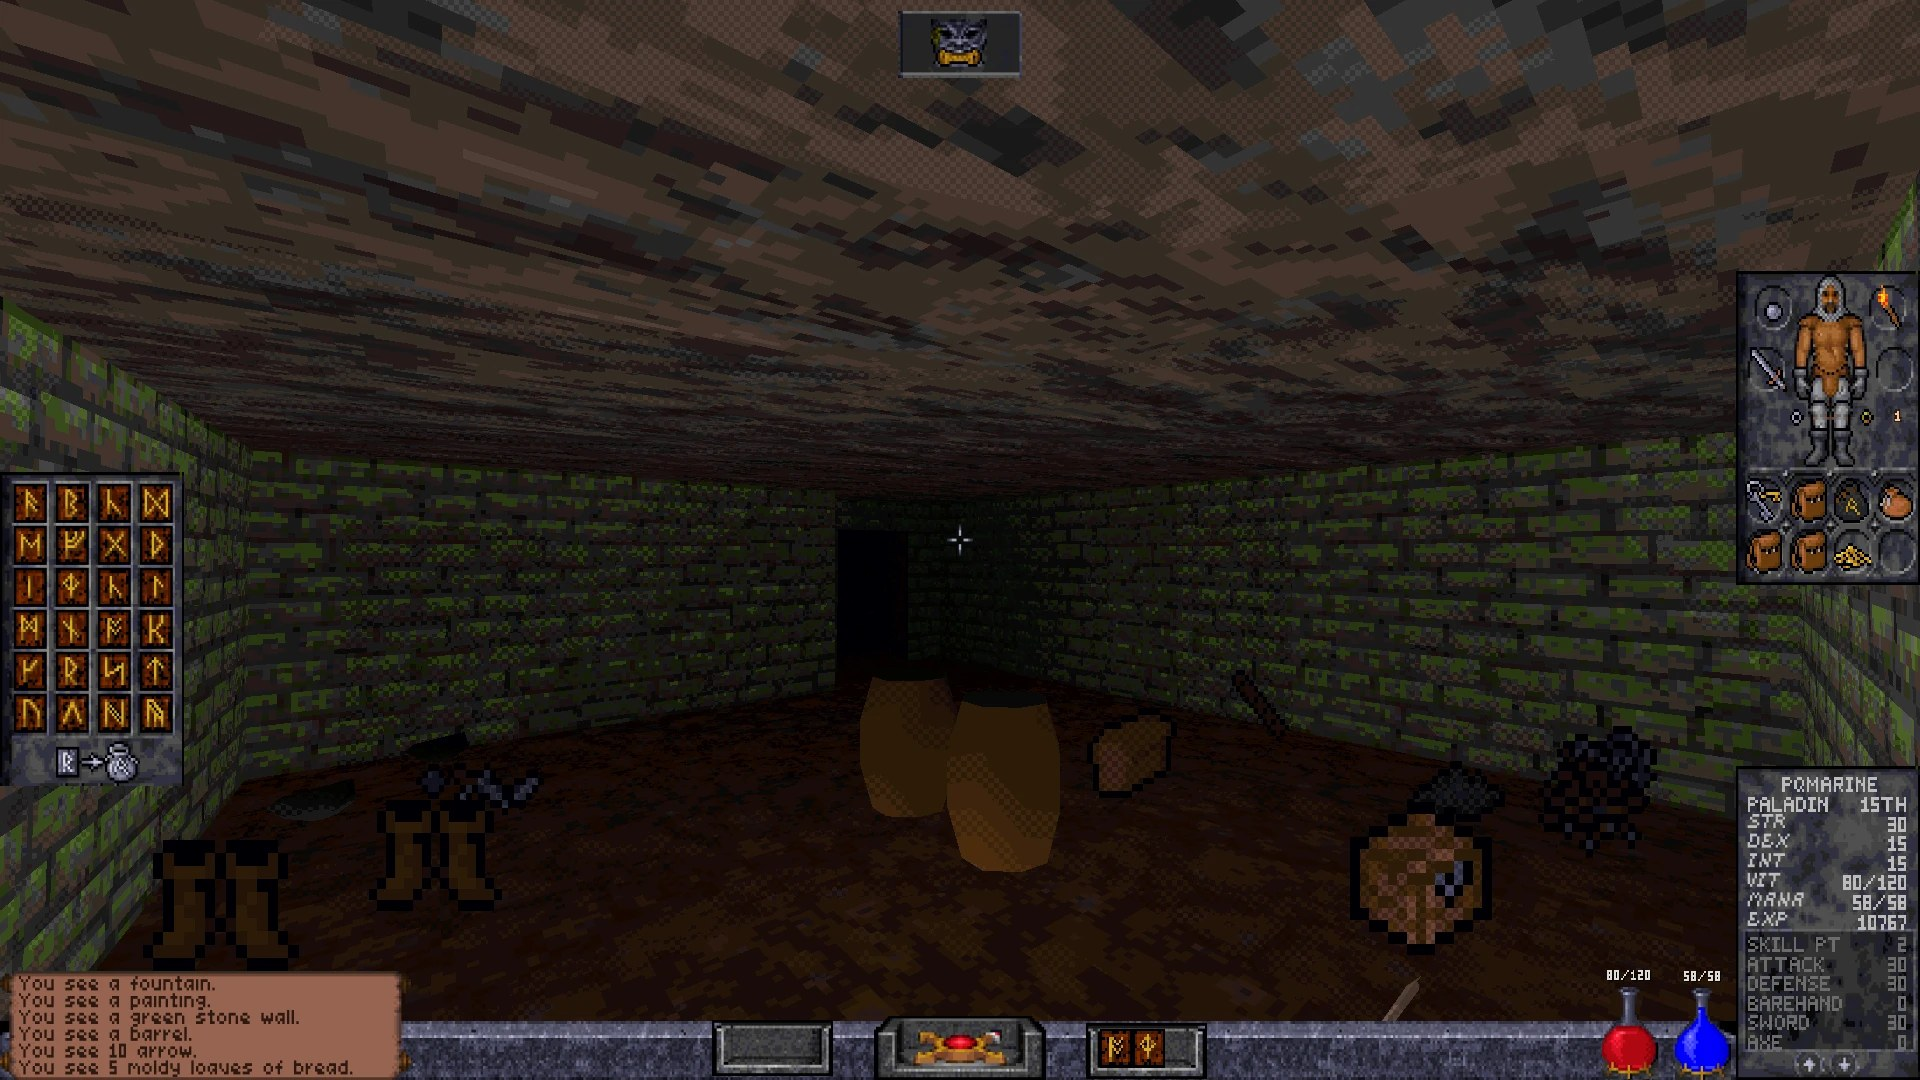
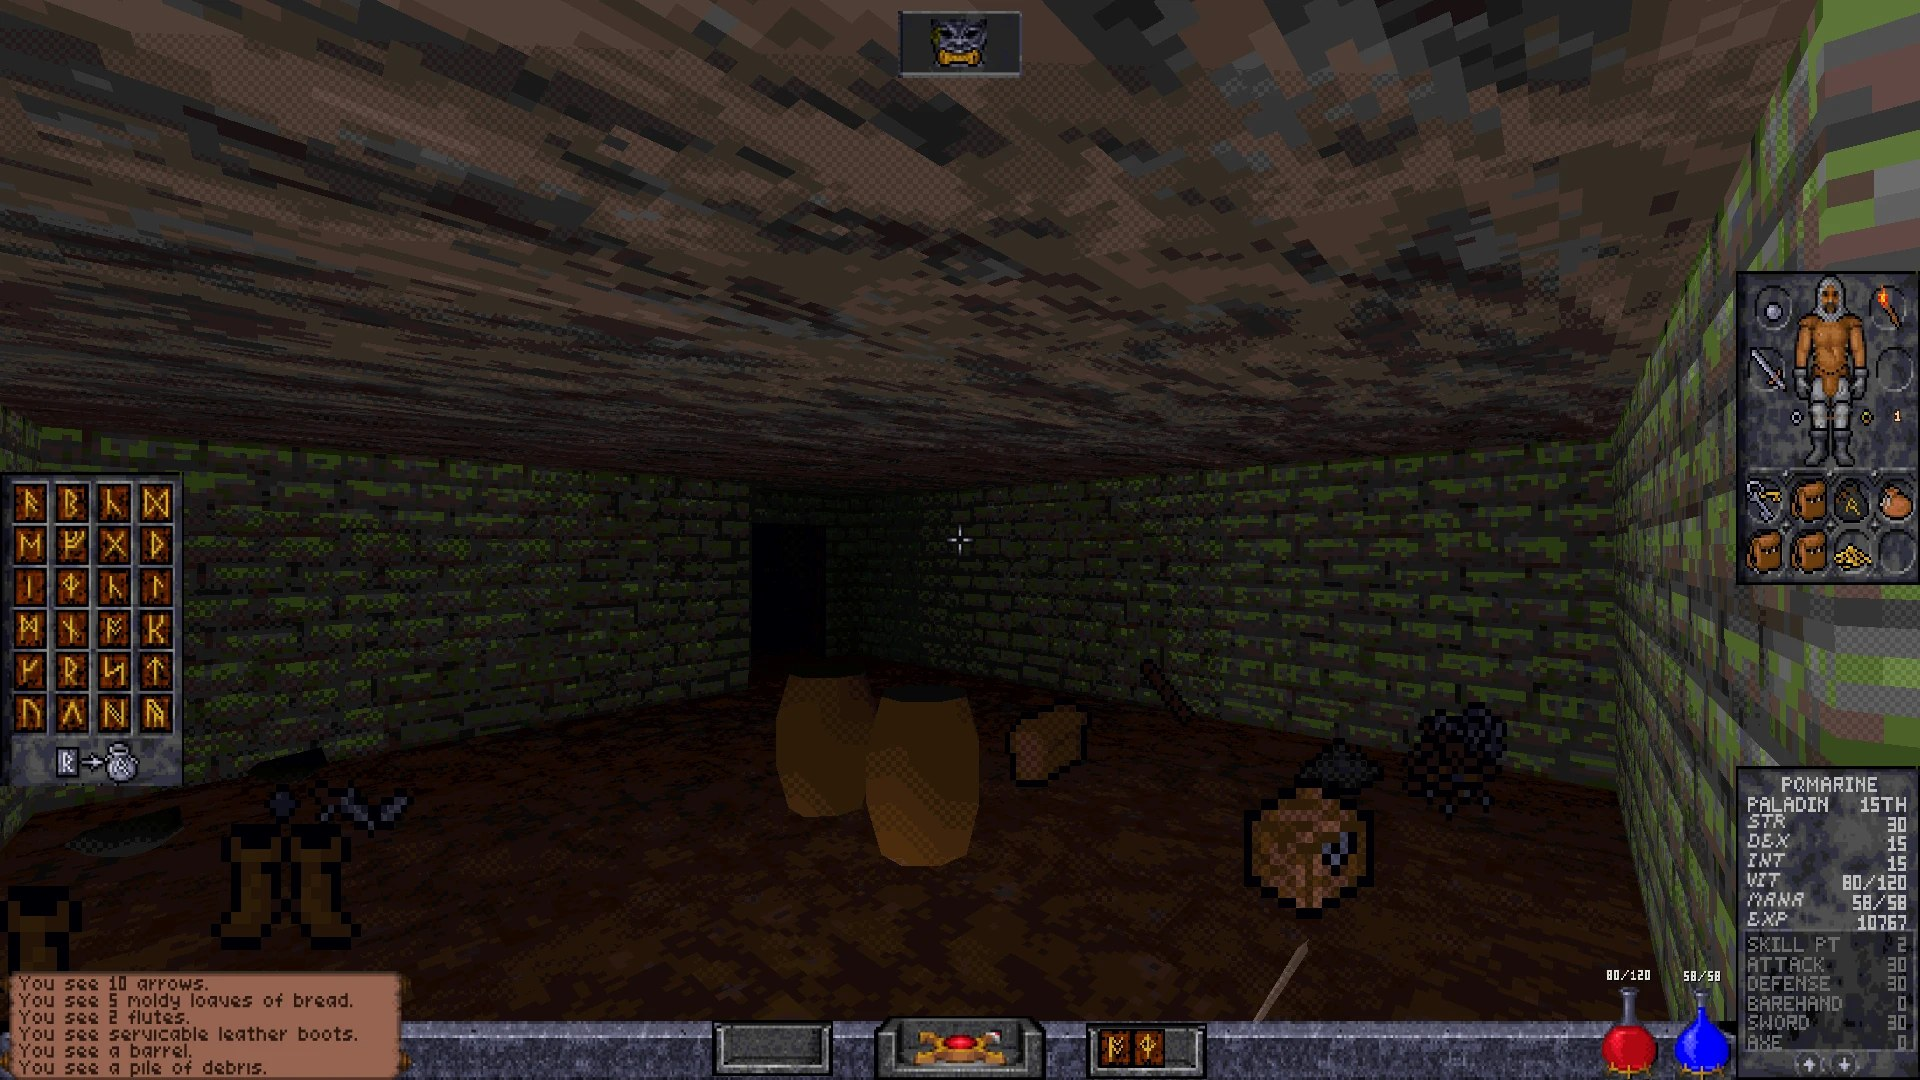
Gallery: the prison tower in Classic Modular, the new shot

diff --git a/index.html b/index.html
@@ -562,7 +562,7 @@
       <a href="img/uw2-ice.jpg" class="reveal" data-cap="Ultima Underworld II: the ice caverns, a bridge over the water."><img src="img/uw2-ice.jpg" alt="The ice caverns of Ultima Underworld II" loading="lazy"></a>
       <a href="img/ur07.jpg" class="reveal" data-cap="The modern scheme: the rune panel at the left, the character panel and the bags at the right, the action bar below."><img src="img/ur07.jpg" alt="The modern interface" loading="lazy"></a>
       <a href="img/ur16.jpg" class="reveal" data-cap="Classic Modular: the rune tablet, the character page and the stats panel, the compass, the power gem and the flasks."><img src="img/ur16.jpg" alt="Classic Modular" loading="lazy"></a>
-      <a href="img/uw2-modular.jpg" class="reveal" data-cap="Ultima Underworld II in Classic Modular: the rune bag, the character page and the stats, the scroll, the compass, the prepared runes and the flasks, drawn from the second game's art."><img src="img/uw2-modular.jpg" alt="Classic Modular in Ultima Underworld II" loading="lazy"></a>
+      <a href="img/uw2-modular.jpg" class="reveal" data-cap="Ultima Underworld II in Classic Modular, in the prison tower: the rune bag, the character page and the stats, the scroll, the compass, the prepared runes and the flasks, drawn from the second game's art."><img src="img/uw2-modular.jpg" alt="Classic Modular in the prison tower of Ultima Underworld II" loading="lazy"></a>
       <a href="img/ur15.jpg" class="reveal" data-cap="Classic Wide: the original inventory with the remaining carrying capacity."><img src="img/ur15.jpg" alt="Classic Wide" loading="lazy"></a>
       <a href="img/uw2-talorus.jpg" class="reveal" data-cap="Ultima Underworld II: Talorus."><img src="img/uw2-talorus.jpg" alt="Talorus in Ultima Underworld II" loading="lazy"></a>
       <a href="img/ur03.jpg" class="reveal" data-cap="Remastered mode in the classic frame, the help window's live map beside it."><img src="img/ur03.jpg" alt="Remastered mode in the classic frame" loading="lazy"></a>
